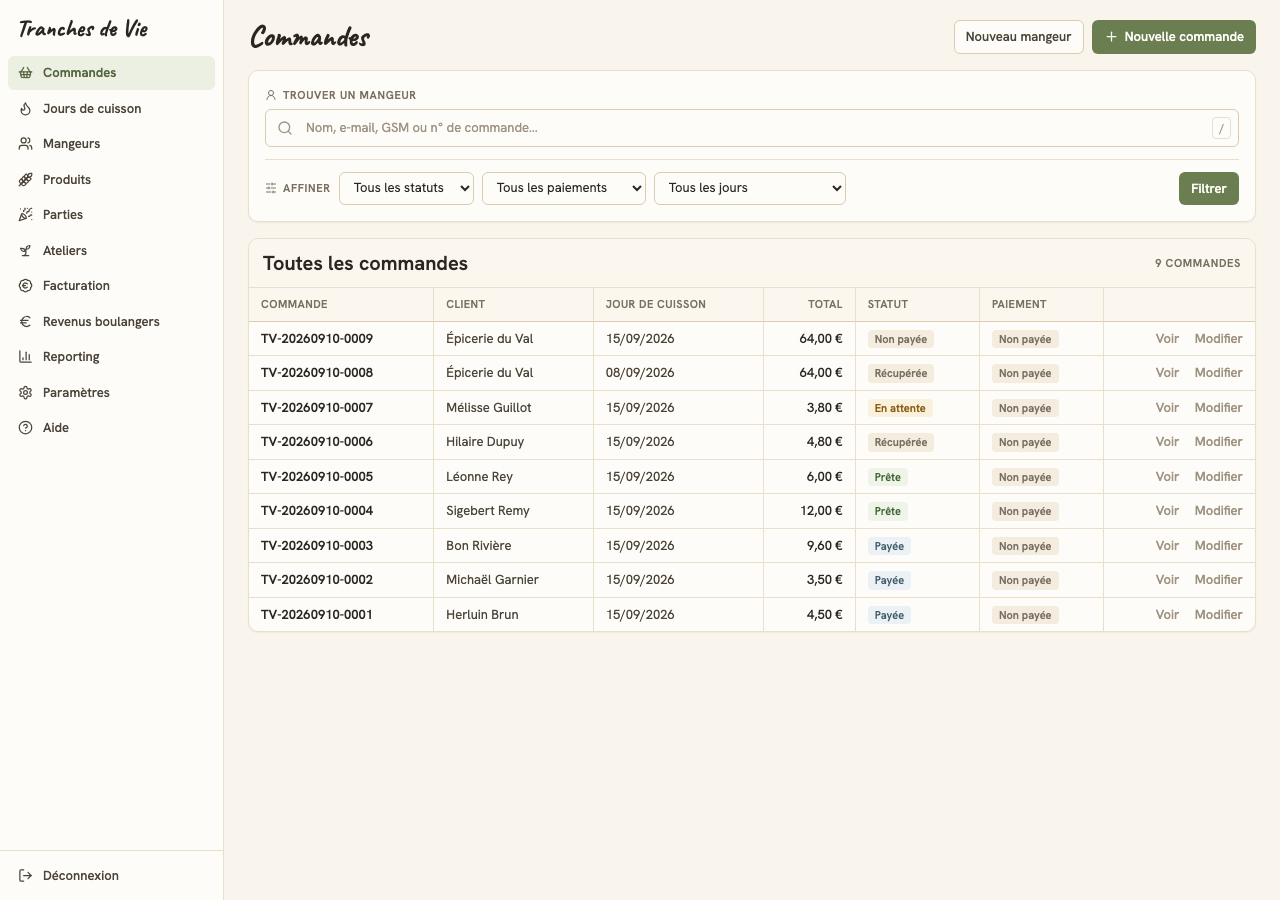
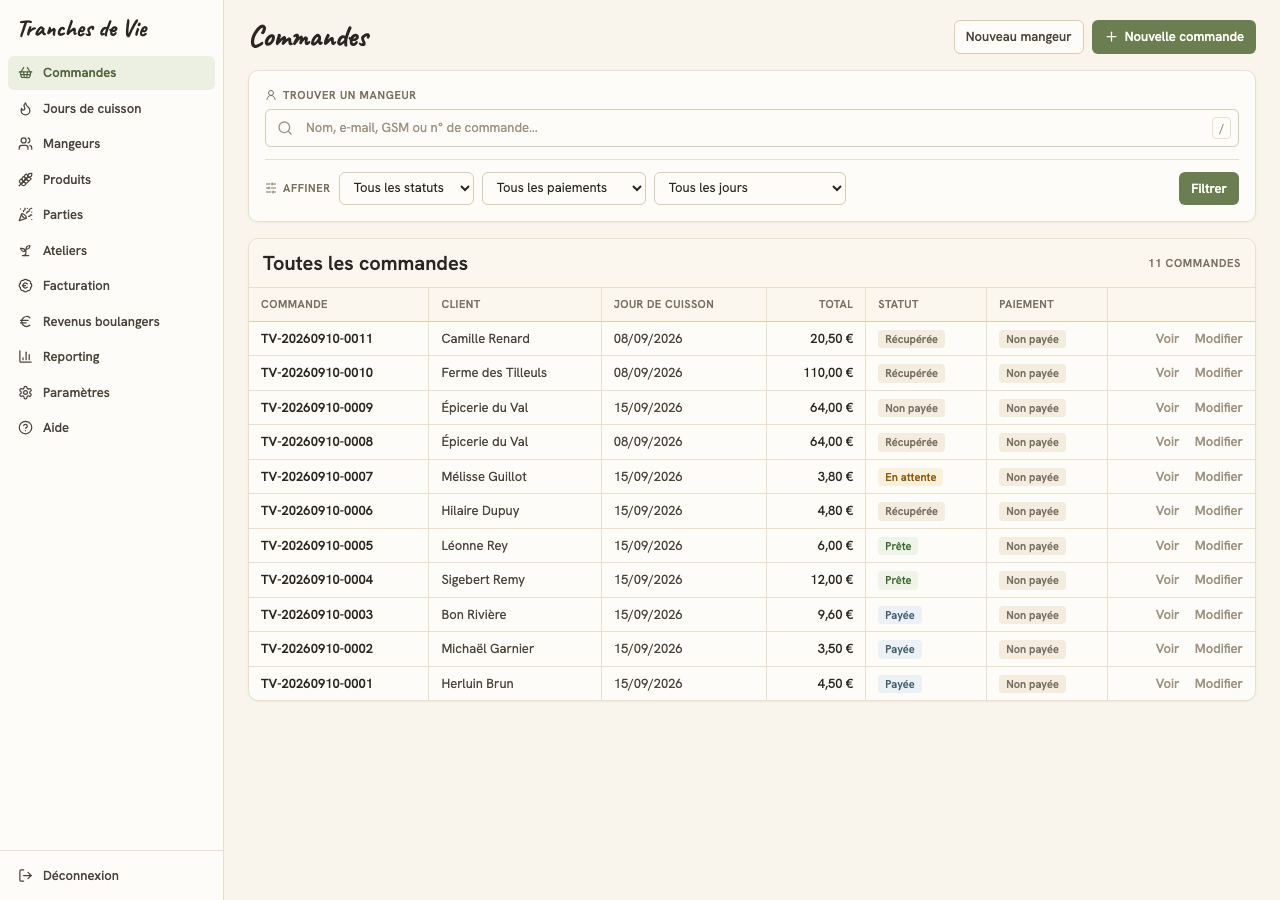
Aide : documente les écarts de montant et régénère les captures
Le jeu de démo des captures ne contenait aucun écart : la capture de l'écran
n'aurait montré que l'état vide. Il sème maintenant une commande de chaque
famille.

Claude-Session: https://claude.ai/code/session_017JqbRAe5Hoe38AXBXNVnpx

diff --git a/spec/screenshots/aide_screenshots_spec.rb b/spec/screenshots/aide_screenshots_spec.rb
@@ -223,7 +223,26 @@ RSpec.describe "Aide — génération des captures", type: :system, aide_screens
       order.update!(total_cents: order.order_items.sum { |it| it.qty * it.unit_price_cents })
     end
 
+    build_amount_discrepancies(products, bake_days)
+
     pro
+  end
+
+  # Sans écart, la capture de /admin/billing/ecarts ne montrerait que l'état
+  # vide — inutile pour la doc. On sème donc une commande de chaque famille :
+  # montant au-dessus du détail, et montant sous le détail sans remise.
+  def build_amount_discrepancies(products, bake_days)
+    variant = products.first.product_variants.first
+
+    above = create(:customer, first_name: "Ferme", last_name: "des Tilleuls")
+    order = create(:order, customer: above, bake_day: bake_days[:past], status: :picked_up)
+    create(:order_item, order: order, product_variant: variant, qty: 18, unit_price_cents: variant.price_cents)
+    order.update!(total_cents: 20 * variant.price_cents) # resté au montant de 20 pains
+
+    below = create(:customer, first_name: "Camille", last_name: "Renard")
+    other = create(:order, customer: below, bake_day: bake_days[:past], status: :picked_up)
+    create(:order_item, order: other, product_variant: variant, qty: 4, unit_price_cents: variant.price_cents)
+    other.update!(total_cents: (4 * variant.price_cents) - 150)
   end
 
   def build_parties

diff --git a/app/docs/aide/facturation.md b/app/docs/aide/facturation.md
@@ -31,6 +31,23 @@ Coche les commandes concernées — la case « Tout sélectionner » d'un client
 
 > Ces deux marquages sont indépendants du **statut de la commande** (prête, récupérée…) : facturer n'est pas cuire, encaisser n'est pas remettre le pain.
 
+## Repérer les montants qui ne collent pas
+
+Le montant d'une commande est un champ à part : il peut avoir été saisi à la main, et donc ne plus correspondre au détail des articles. Quand c'est le cas, le relevé du client affiche un sous-total qui ne se déduit pas de ses propres lignes.
+
+Le bouton **Écarts de montant**, en haut de l'écran Facturation, dresse la liste des commandes concernées.
+
+![Les écarts de montant à relire](shot:billing-discrepancies)
+
+Deux familles :
+
+- **Montant au-dessus du détail** — à corriger : aucune remise ne rend une commande plus chère que la somme de ses lignes. Sur le relevé du client, l'écart apparaît en « Ajustement ».
+- **Montant sous le détail, sans remise applicable** — à relire : le client n'appartient à aucun groupe de remise, donc rien dans le barème n'explique la réduction.
+
+Chaque ligne renvoie vers la commande et vers son formulaire de correction. Le bouton **Télécharger le PDF** produit la même liste sur papier, pour faire le point.
+
+> Les commandes sous leur détail chez un client qui bénéficie d'une remise de groupe ne sont pas listées : le taux appliqué le jour de la commande n'est pas conservé, les comparer au barème d'aujourd'hui ne donnerait que de fausses alertes. Leur nombre est affiché en haut de l'écran.
+
 ## Générer une facture PDF
 
 Un client a besoin d'une facture ? Deux cas :
